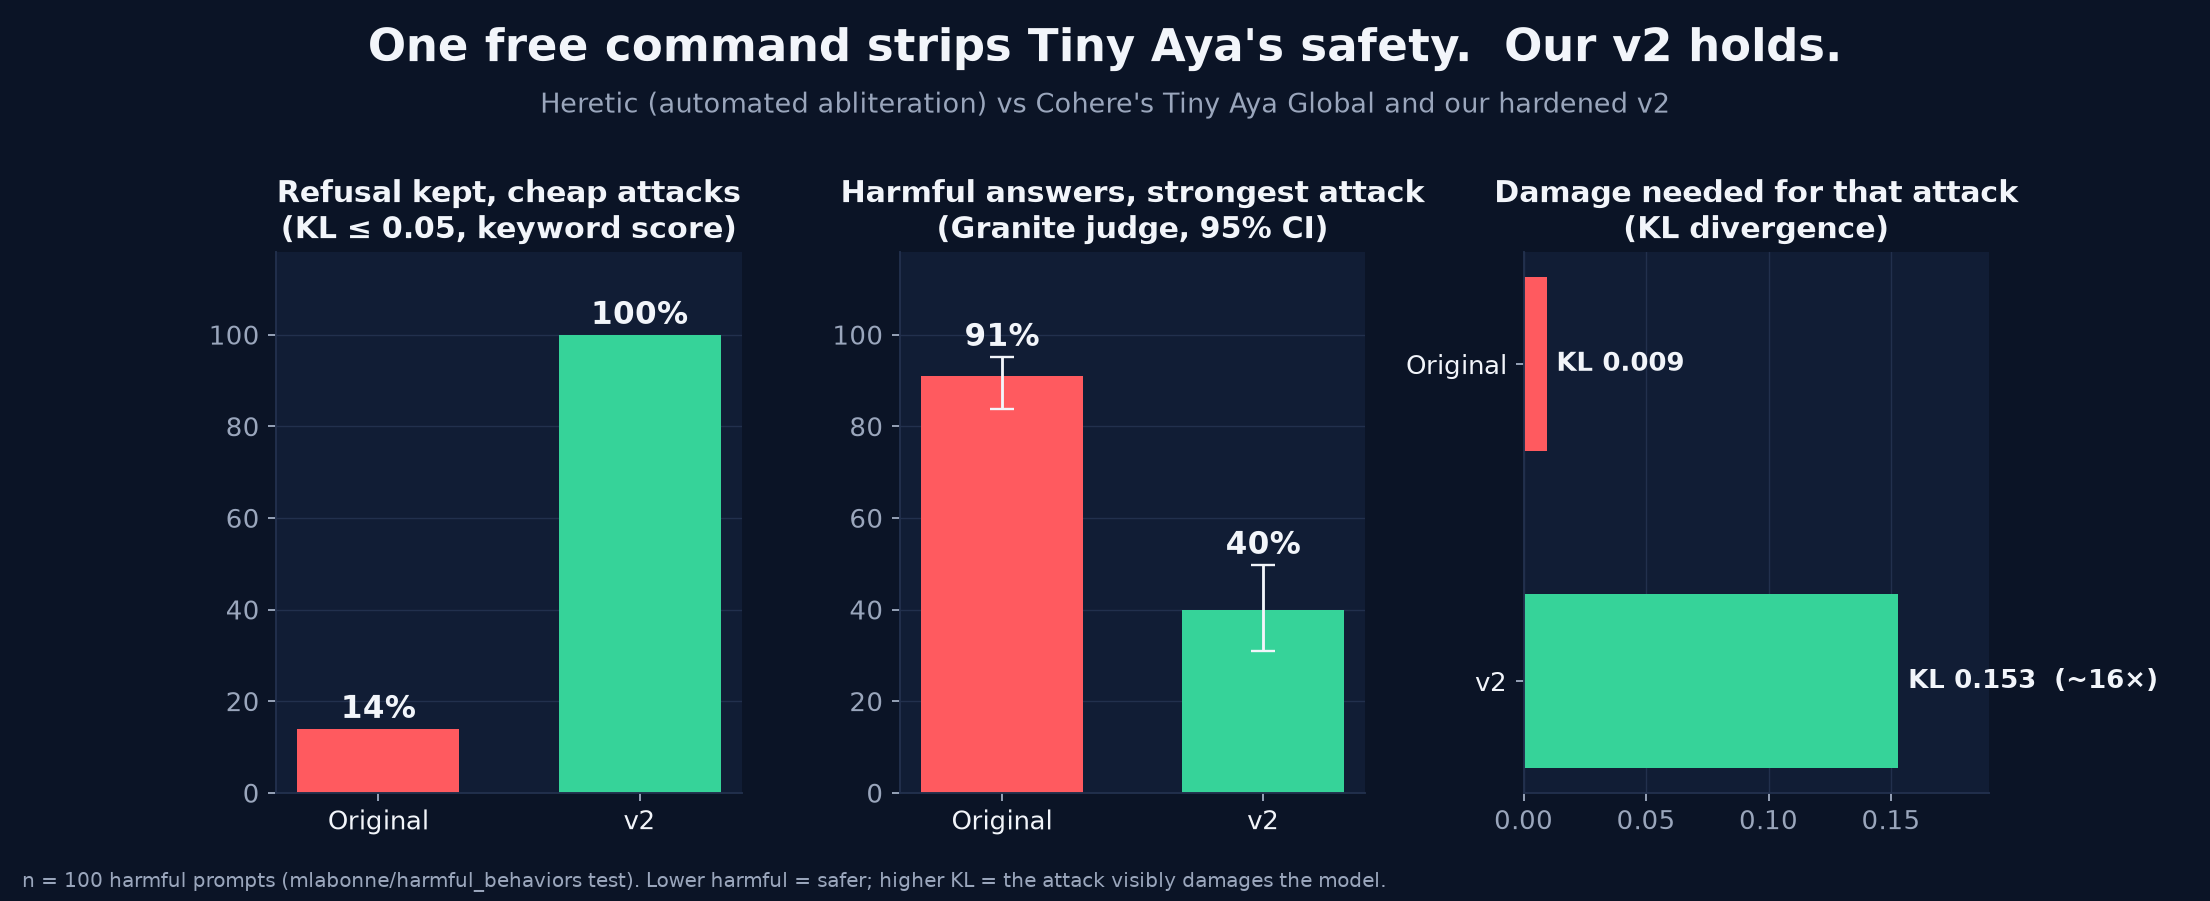
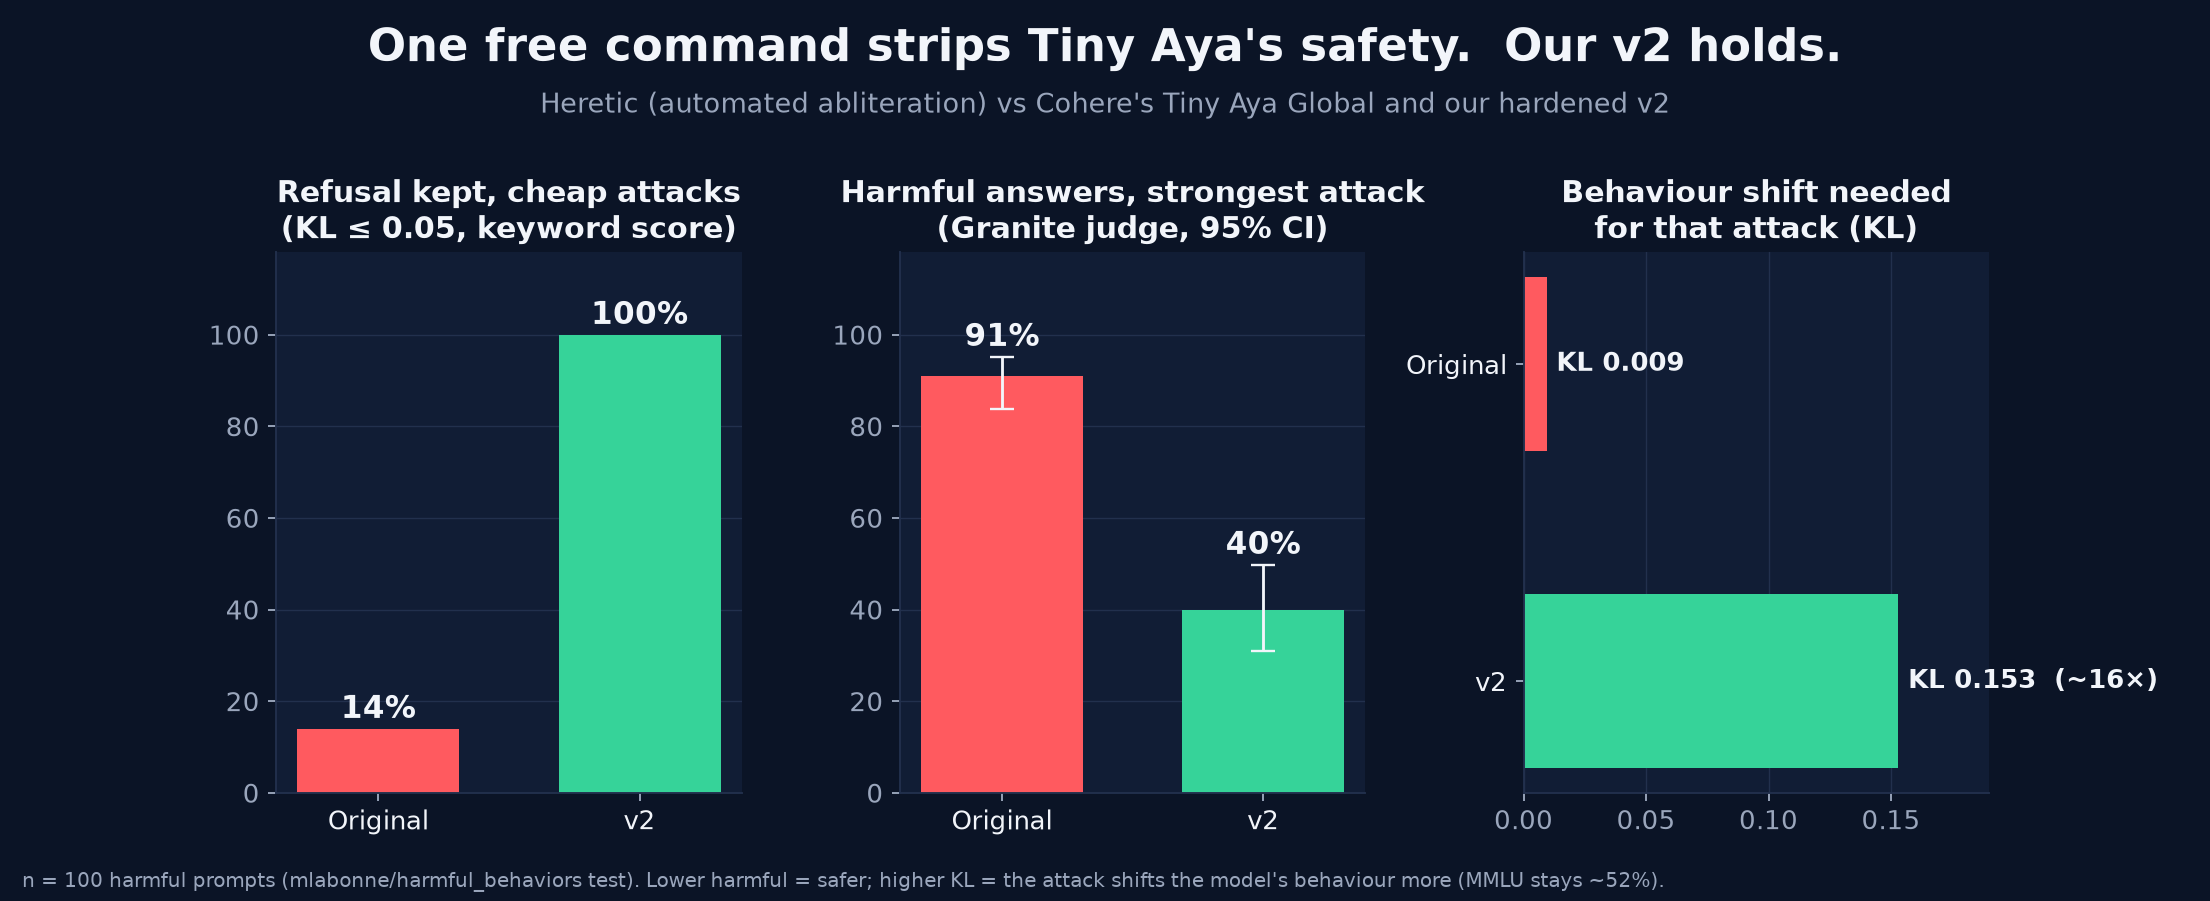
Article: Heretic context (40k stars, ~7.6k heretic / ~9.2k abliterated HF models); precise wording per review (KL = distribution shift, removal vs steering split, similar worst-case harm, MMLU scope, GPU-only cost, NC licence, Llama Guard Arabic caveat)

Changed region(s): [[0.6557, 0.1865, 0.9054, 0.2797], [0.4995, 0.9634, 0.7493, 0.9945]]

diff --git a/scripts/make_figures.py b/scripts/make_figures.py
@@ -42,8 +42,8 @@ bars(axs[1], ["Original", "v2"], [u0, u2], [RED, GREEN], ci=[c0, c2]); axs[1].se
 axs[2].barh([1, 0], [0.0094, 0.153], color=[RED, GREEN], height=0.55); axs[2].set_yticks([1, 0]); axs[2].set_yticklabels(["Original", "v2"], color=INK)
 axs[2].set_xlim(0, 0.19); axs[2].grid(axis="x", color=GRID, lw=0.6); axs[2].set_axisbelow(True)
 axs[2].text(0.0094 + 0.004, 1, "KL 0.009", va="center", fontweight="bold"); axs[2].text(0.153 + 0.004, 0, "KL 0.153  (~16×)", va="center", fontweight="bold")
-axs[2].set_title("Damage needed for that attack\n(KL divergence)", color=INK)
-save(fig, "hero", "n = 100 harmful prompts (mlabonne/harmful_behaviors test). Lower harmful = safer; higher KL = the attack visibly damages the model.")
+axs[2].set_title("Behaviour shift needed\nfor that attack (KL)", color=INK)
+save(fig, "hero", "n = 100 harmful prompts (mlabonne/harmful_behaviors test). Lower harmful = safer; higher KL = the attack shifts the model's behaviour more (MMLU stays ~52%).")
 
 # ---------- 2. VULNERABILITY (refusal and harm in separate panels)
 fig, axs = plt.subplots(1, 3, figsize=(13, 4.8)); fig.subplots_adjust(top=0.78, bottom=0.13, wspace=0.32)
@@ -76,14 +76,14 @@ for k, f in FR.items():
     ax.scatter([kl for kl, _ in f], [r * 100 for _, r in f], color=COL[k], s=18, zorder=3)
 ax.step([0] + [kl for kl, _ in F200], [100] + [r * 100 for _, r in F200], where="post", color=GREEN, lw=1.6, ls="--", label="v2, 5× longer search (200 trials)")
 ax.set_xlim(-0.003, 0.17); ax.set_ylim(0, 104); ax.grid(color=GRID, lw=0.6)
-ax.set_xlabel("Damage the attack does to normal behaviour (KL divergence)  →"); ax.set_ylabel("Harmful prompts still refused (%)")
+ax.set_xlabel("Behaviour shift caused by the attack (KL divergence)  →"); ax.set_ylabel("Harmful prompts still refused (%)")
 fig.suptitle("Every attack Heretic found: higher curve = harder to strip", fontsize=14.5, fontweight="bold", y=0.97)
 ax.legend(loc="upper center", bbox_to_anchor=(0.5, -0.13), ncol=5, frameon=False, fontsize=9, labelcolor=INK)
-save(fig, "pareto", "Each point = best attack at that damage level (Heretic's keyword refusal score; fresh search per model).")
+save(fig, "pareto", "Each point = best attack at that level of shift (Heretic's keyword refusal score; fresh search per model).")
 
 # ---------- 4. 40 vs 200 trials
 fig, axs = plt.subplots(1, 2, figsize=(12, 4.4), gridspec_kw={"width_ratios": [1.5, 1]}); fig.subplots_adjust(top=0.78, bottom=0.15, wspace=0.28)
-fig.suptitle("A 5× longer search finds cheaper partial attacks, but no stronger worst case", fontsize=14.5, fontweight="bold", y=0.97)
+fig.suptitle("A 5× longer search finds cheaper partial attacks, with similar worst-case harm", fontsize=14.5, fontweight="bold", y=0.97)
 import numpy as np
 x = np.arange(3); w = 0.36
 for i, (lab, vals, col) in enumerate([("40 trials", [1.00, 1.00, 0.96], GREEN), ("200 trials", [1.00, 1.00, 0.79], BLUE)]):
@@ -94,7 +94,7 @@ axs[0].set_title("Lowest refusal Heretic reached on v2 (keyword)", color=INK); a
 axs[0].grid(axis="y", color=GRID, lw=0.6); axs[0].set_axisbelow(True)
 bars(axs[1], ["40 trials", "200 trials"], [0.40, 0.42], [GREEN, BLUE], ci=[(0.309, 0.498), wilson(0.42, 100)])
 axs[1].set_title("Worst case: harmful answers\n(Granite, 95% CI; overlapping)", color=INK)
-save(fig, "search_budget", "One search per budget: shows no stronger worst case was found, not that none exists.")
+save(fig, "search_budget", "One search per budget; overlapping intervals are not an equivalence test.")
 
 # ---------- 5. VALIDATION DASHBOARD (harm, Granite)
 rows = [("Heretic\n(strongest)", "base_heretic_r14_harm", "v2_heretic_r33_harm", "v2b_heretic_r47_harm"),

diff --git a/README.md b/README.md
@@ -23,7 +23,7 @@ Anyone can download an open model and strip its safety with **one free command**
 | Refuses harmful requests, no attack | 98% | **100%** |
 | After Heretic's attack: answers judged **harmful** | 🔴 **91%** | 🟢 **40%** |
 | Refusal kept under cheap attacks (KL ≤ 0.05)¹ | 🔴 14% | 🟢 **100%** |
-| Damage the strongest attack must cause (KL) | 0.009 | **0.153 (~16×)** |
+| Behaviour shift the strongest attack must cause (KL) | 0.009 | **0.153 (~16×)** |
 | Lexsi SafeTune's direction-removal attack: harmful | 55% | **0%** |
 | Harmful outside English (Hindi, Arabic, French, Spanish)² | 41% | **12%** |
 | General knowledge (MMLU) | 52.3% | 53.0% |
@@ -34,7 +34,7 @@ Anyone can download an open model and strip its safety with **one free command**
 > - **The weakness:** a model's safety ("refuse harmful requests") mostly lives in **one direction** inside its internal activity.
 > - **The attack:** Heretic finds that direction and deletes it from the weights, for free.
 > - **Our innovation:** we **ran that attack inside the model during training**, so it learned to refuse even with the direction removed.
-> - **The result:** cheap attacks now fail completely. The strongest attack must visibly damage the model **~16× more** and still gets only **40%** harmful answers instead of 91%.
+> - **The result:** cheap attacks now fail completely. The strongest attack needs a **~16× larger shift** in the model's behaviour (KL) and still gets only **40%** harmful answers instead of 91%.
 > - **The limits:** fine-tuning on harmful examples and forcing the answer's first words ("prefill") still work against it, and we say so.
 
 ---
@@ -46,7 +46,7 @@ Anyone can download an open model and strip its safety with **one free command**
 3. [How we tested: adaptive attackers, independent judges](#3-how-we-tested-adaptive-attackers-independent-judges)
 4. [Result 1: Tiny Aya is stripped for free](#4-result-1-tiny-aya-is-stripped-for-free)
 5. [Result 2: v2 resists Heretic](#5-result-2-v2-resists-heretic)
-6. [Result 3: a 5× longer search finds no stronger worst case](#6-result-3-a-5-longer-search-finds-no-stronger-worst-case)
+6. [Result 3: a 5× longer search finds similar worst-case harm](#6-result-3-a-5-longer-search-finds-similar-worst-case-harm)
 7. [Result 4: independent validation with Lexsi's toolkits](#7-result-4-independent-validation-with-lexsis-toolkits)
 8. [Attack resistance matrix: what it stops and what it doesn't](#8-attack-resistance-matrix-what-it-stops-and-what-it-doesnt)
 9. [Result 5: it holds outside English](#9-result-5-it-holds-outside-english)
@@ -69,9 +69,18 @@ Anyone can download an open model and strip its safety with **one free command**
 
 In 2024, Arditi et al. showed that this refusal mostly lives along **one direction** in the model's internal activity, like a single switch. **Abliteration** edits the weights so the model can no longer move along that direction: the switch is gone, and the model stops refusing.
 
-**[Heretic](https://github.com/p-e-w/heretic)** automates abliteration. It searches for the edit that removes the most refusals while changing the model's normal behaviour the least. It needs no training data and no expertise, and it runs in about an hour on a free GPU. Most "abliterated" models on Hugging Face are made this way.
+**[Heretic](https://github.com/p-e-w/heretic)** automates abliteration, and it is the standard tool for it:
 
-> **KL divergence, the attacker's damage meter.** It measures how much an attack changes the model's answers to *harmless* prompts: 0 means identical, higher means visibly different. An attacker wants **low KL**, because a stripped model that still behaves normally is useful and goes unnoticed. A good defense forces the attacker into **high KL**: a model that is visibly damaged.
+| Heretic in numbers (checked Nov 12, 2026) | |
+|---|---|
+| GitHub stars / forks | **40,370 / 4,628** (open-sourced Sept 2025) |
+| Hugging Face models with "heretic" in the name | **~7,600** |
+| Hugging Face models with "abliterated" in the name | **~9,200** |
+| What it needs | one command, no training data, about 1 hour on a free GPU |
+
+It runs an optimiser (Optuna) that searches for the edit removing the most refusals while changing the model's normal behaviour the least. Because it is free, automatic and popular, it is the attack an open-weight model is most likely to face in practice, which is why we built our defense against it.
+
+> **KL divergence, the attacker's "shift meter".** It measures how much an attack shifts the model's output distribution on *harmless* prompts: 0 means identical. Heretic tries to keep KL **low**, so the stripped model behaves like the original. A defense that forces a **higher KL** makes the attack shift the model's behaviour more. That is a measured distribution shift, not necessarily lost capability: in our runs, MMLU barely moves even at high KL.
 
 **Our question:** can a small open model keep its refusals against the attack people actually use, without becoming less useful?
 
@@ -157,7 +166,7 @@ flowchart LR
 
 ![Every attack Heretic found](docs/figures/pareto.png)
 
-**How to read it:** each dot is the best attack Heretic found at a given damage level. Moving right means more damage; higher means more refusals survived. The original (red) collapses almost at zero damage. v2 (green) stays at the top across the whole cheap-attack zone.
+**How to read it:** each dot is the best attack Heretic found at a given level of behaviour shift (KL). Moving right means a larger shift; higher means more refusals survived. The original (red) collapses almost at zero damage. v2 (green) stays at the top across the whole cheap-attack zone.
 
 **Lowest refusal Heretic reached** (Heretic's keyword score; fresh search per model):
 
@@ -174,7 +183,7 @@ flowchart LR
 
 | | Original | v2 | v2b |
 |---|---|---|---|
-| Damage needed (KL) | 0.009 | **0.153 (~16×)** | 0.054 |
+| Behaviour shift needed (KL) | 0.009 | **0.153 (~16×)** | 0.054 |
 | Refuses (ProtectAI) | 1% | 25% | 31% |
 | **Harmful (Granite, 95% CI)** | 91% [84, 95] | **40% [31, 50]** | 57% [47, 66] |
 | Harmful on clearly-unsafe XSTest prompts | 61% [55, 68] | **4% [2, 8]** | 15% [11, 21] |
@@ -182,9 +191,13 @@ flowchart LR
 
 **What "harmful" adds over "refusal".** Under attack, v2 refuses only 25%, yet only 40% of its answers are harmful. Granite found that v2 often **rewrites a harmful request into a harmless answer** instead of refusing (asked about trafficking endangered species, it writes a conservation guide).
 
-> **Takeaway:** cheap attacks fail completely on v2. The strongest attack costs **~16× the damage** and still leaves **less than half** the harm. The defense raises the price and lowers the payoff, but it does **not** make stripping impossible.
+> **Takeaway:**
+> - **Cheap attacks** (KL ≤ 0.05) fail completely on v2.
+> - **The strongest attack** needs a **~16× larger distribution shift** and still leaves **less than half** the harm.
+> - **That shift is not proven capability damage:** MMLU under attack is 52.1%.
+> - **Net effect:** the defense raises the price and lowers the payoff, but it does **not** make stripping impossible.
 
-## 6. Result 3: a 5× longer search finds no stronger worst case
+## 6. Result 3: a 5× longer search finds similar worst-case harm
 
 ![40 vs 200 trials](docs/figures/search_budget.png)
 
@@ -196,7 +209,10 @@ To check that v2's robustness isn't an artefact of a short search, Abhinav re-ra
 | Worst case: harmful (Granite, 95% CI) | 40% [31, 50] | 42% [33, 52] |
 | Worst case: refusal / MMLU | 25% / 52.1% | 20% / 52.2% |
 
-> **Takeaway:** the longer search found **cheaper partial attacks in the middle band** but **no stronger worst case** (the confidence intervals overlap). This is one search per budget, so it does not prove that more search can never do more damage.
+> **Takeaway:**
+> - **What it found:** the longer search found **cheaper partial attacks in the middle band**, with **similar observed worst-case harm** (40% vs 42%).
+> - **What that doesn't mean:** overlapping intervals are not an equivalence test.
+> - **Scope:** this is one search per budget, so it does not show that more search can never do more damage.
 
 ## 7. Result 4: independent validation with Lexsi's toolkits
 
@@ -233,7 +249,10 @@ We didn't rely on one attack implementation. **Lexsi's SafeTune** computes its o
 
 <sub>* Measured before the single-BOS fix (section 13); all other rows are final.</sub>
 
-> **Takeaway:** v2 stops attacks that **remove or steer the refusal direction**. It does not stop **training on harmful data** or **forcing the answer's first words**. These are the known open problems in tamper resistance (Qi et al. 2023; TamperBench).
+> **Takeaway:**
+> - **Removing the refusal direction:** strongly resisted (Heretic, SafeTune ablation).
+> - **Steering against it:** only partly resisted (72% harmful under CAA −1, against 97% for the original).
+> - **Not resisted:** training on harmful data and forcing the answer's first words. These are the known open problems in tamper resistance (Qi et al. 2023; TamperBench).
 
 ## 9. Result 5: it holds outside English
 
@@ -241,7 +260,7 @@ We didn't rely on one attack implementation. **Lexsi's SafeTune** computes its o
 
 Tiny Aya is multilingual, so Abhinav tested 100 red-team prompts per language from Cohere's [aya_redteaming](https://huggingface.co/datasets/CohereLabs/aya_redteaming), at each model's strongest Heretic attack.
 - **Translation for judging:** answers were translated to English with NLLB-200 and judged by Granite.
-- **Cross-check:** Llama Guard 3 judged the original text and agreed on 81–87% of rows (85% on English without translation).
+- **Cross-check:** Llama Guard 3 judged the original text and agreed on 81–87% of rows (85% on English without translation). Arabic is not among Llama Guard 3-1B's documented supported languages, so the Arabic cross-check is outside its documented support. It is a consistency check, not independent validation of accuracy.
 
 | Harmful at strongest attack (95% CI) | English | Hindi | Arabic | French | Spanish | Four languages pooled (n = 400) |
 |---|---|---|---|---|---|---|
@@ -266,7 +285,7 @@ Tiny Aya is multilingual, so Abhinav tested 100 red-team prompts per language fr
 | Harmful at strongest attack (Granite) | 91% | **40%** | 57% |
 | **MMLU, clean** | 52.3% | 53.0% | 52.7% |
 
-**Two different MMLU numbers, two different conditions.** Section 5 reports MMLU *under attack* (52.0 / 52.1 / 52.0%); this table reports the *clean* models (52.3 / 53.0 / 52.7%). Both show no capability cost.
+**Two different MMLU numbers, two different conditions.** Section 5 reports MMLU *under attack* (52.0 / 52.1 / 52.0%); this table reports the *clean* models (52.3 / 53.0 / 52.7%). Neither shows a **detectable MMLU drop** on this 1,000-question evaluation. That is one benchmark, not a full capability audit.
 
 > **Takeaway:** v2 is the safest but most cautious. v2b is almost as relaxed as the original and keeps much of the protection. We publish both as two useful points on the trade-off curve.
 
@@ -309,7 +328,7 @@ These use the same attack (SafeTune refusal-direction ablation) on both models, 
 ## 13. Limitations, failures and honest corrections
 
 **What we do not claim:**
-- **v2 is not unbreakable.** The strongest Heretic attack still gets 40% harmful answers, at about 16× the damage.
+- **v2 is not unbreakable.** The strongest Heretic attack still gets 40% harmful answers, at about 16× the behaviour shift (KL).
 - **Harmful fine-tuning and prefilling still break it** (section 8).
 - **One model size** (3.35B). v2 over-refuses (39% vs 16%); v2b reduces this to 18%.
 - **The judges are AI models.** We used two independent ones to reduce that risk, plus a third for other languages.
@@ -370,7 +389,8 @@ The AuditKIT maintainers combined #35 and #36 into a release PR, keeping our com
 
 **Honest reading:**
 - The **cheapest closed APIs are about half the cost** of our *unoptimised* self-hosting. A serving engine with continuous batching (vLLM-style) would likely change that, but we did not measure it.
-- Against current mid-tier models, self-hosting is **about 4–10× cheaper**.
+- Against current mid-tier models, the **GPU cost alone** is about 4–10× lower than their API list prices. This counts the GPU only: the host VM, operations and redundancy are excluded, so a full deployment costs more, and we make no end-to-end production-cost claim.
+- **Licence:** Tiny Aya (and therefore our derived models) is CC-BY-NC-4.0. Commercial use, such as a paid support assistant, needs separate permission from Cohere.
 - The strongest reasons to self-host are **privacy, 70+ languages and owning the weights**. That ownership is exactly the risk this project reduces.
 
 <sub>Sources:</sub>
@@ -488,7 +508,7 @@ Jobs run on free Kaggle T4 GPUs (FP16). **Never published:** stripped models, th
 - **Refusal direction:** one direction in a model's internal activity that mostly controls "saying no".
 - **Abliteration:** editing the weights to remove that direction. **Heretic** automates it.
 - **KL divergence:** how much an attack changes the model's normal answers; low means an invisible attack.
-- **Pareto front:** for each damage level, the strongest attack found.
+- **Pareto front:** for each level of behaviour shift (KL), the strongest attack found.
 - **LoRA:** cheap fine-tuning that trains small add-on matrices.
 - **Adversarial training:** training while being attacked, so the model learns to resist.
 - **Steering (CAA):** pushing the model's activations in a direction while it runs.
